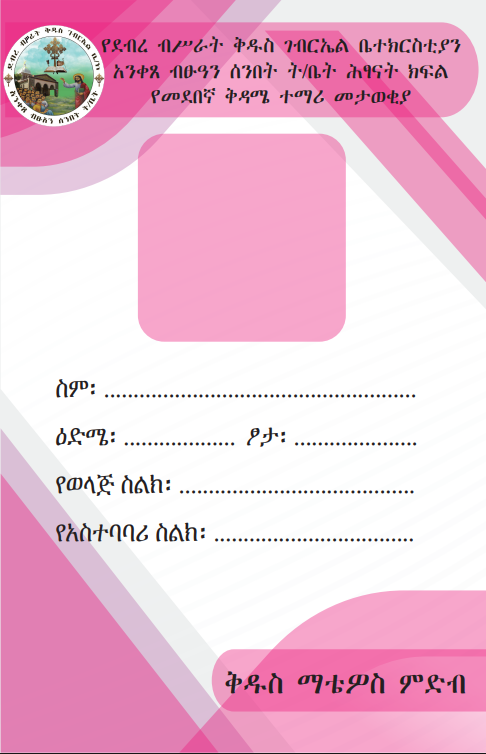
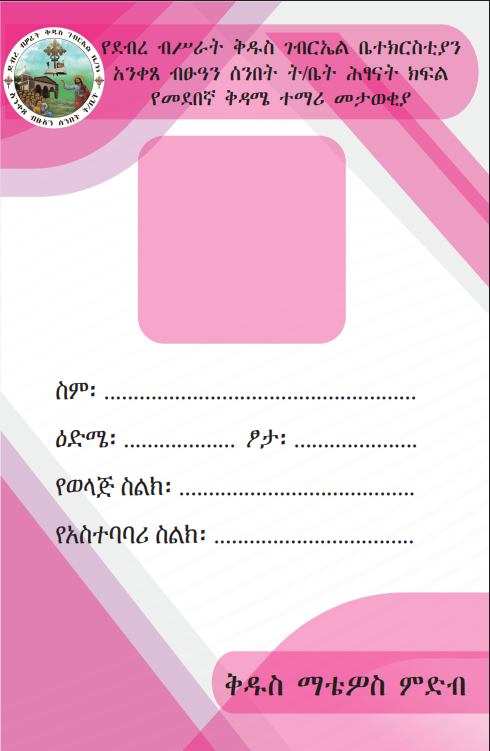
default gender

diff --git a/flask_badge/templates/index.html b/flask_badge/templates/index.html
@@ -40,7 +40,7 @@
         }
 
         .age {
-            margin-left: 20px;
+            margin-left: -10px;
             margin-top: 95px;
         }
 
@@ -61,7 +61,7 @@
 
         .qr_code {
             margin-top: 430px;
-            margin-left: -250px;
+            margin-left: -270px;
         }
 
         .id_avatar {

diff --git a/customs/student/models/students.py b/customs/student/models/students.py
@@ -11,7 +11,7 @@ class Student(models.Model):
     full_name = fields.Char(string="Full Name", required=True)
     age = fields.Char(string="Age", required=True)
     name_of_baptism = fields.Char(string="Name of Baptism", required=True)
-    gender = fields.Selection([('male', 'Male'), ('female', 'Female')], string="Gender")
+    gender = fields.Selection([('male', 'Male'), ('female', 'Female')], string="Gender",default="male")
     parents = fields.Many2many('student.parent', string="Parent")
     phone = fields.Char(string="Phone")
     parents_phone = fields.Char(string="Parents Phone", compute="_compute_parents_phone")
@@ -32,8 +32,13 @@ class Student(models.Model):
     @api.depends('parents')
     def _compute_parents_phone(self):
         for record in self:
-            phones = [p.phone_no for p in record.parents if p.phone_no]
-            record.parents_phone = " / ".join(phones) if phones else ""
+            if record.parents:
+                phones = [p.phone_no for p in record.parents if p.phone_no]
+                record.parents_phone = " / ".join(phones) if phones else ""
+            elif record.phone:
+                record.parents_phone = record.phone
+            else:
+                record.parents_phone = ""
 
     @api.depends("id_number")
     def _compute_qr_code(self):

diff --git a/flask_badge/app.py b/flask_badge/app.py
@@ -40,7 +40,10 @@ def generate_badge_pdf():
             "ጴጥሮስ": "petros",
             "ጳውሎስ": "pawlos"
             }
-
+            gender = {
+                "male": "ወንድ",
+                "female": "ሴት"
+            }
             with open(STATIC_DIR / f"{bg[data['stage']]}.png", "rb") as f:
                 ID_FRONT_B64 = base64.b64encode(f.read()).decode('utf-8')
 
@@ -49,13 +52,17 @@ def generate_badge_pdf():
             ID_FRONT_B64 = ""
             LOGO_B64 = ""
         # Render template with ALL data as base64
+
+        static_avatar = STATIC_DIR / "image.png"
+        with open(static_avatar, "rb") as f:
+            AVATAR_B64 = base64.b64encode(f.read()).decode('utf-8')
         html_content = render_template(
             'index.html',
-            avatar_b64=data.get('avatar_b64', ''),
+            avatar_b64=data.get('avatar_b64') if data.get('avatar_b64') != '' else AVATAR_B64,
             qr_base64=data.get('qr_code', ''),
             fullname=data['fullname'],
             age=data['age'],
-            gender=data['gender'],
+            gender=gender[data['gender']],
             parents_phone=data['parents_phone'],
             supervisor_phone=data['supervisor_phone'],
             badge_bg_b64=ID_FRONT_B64
